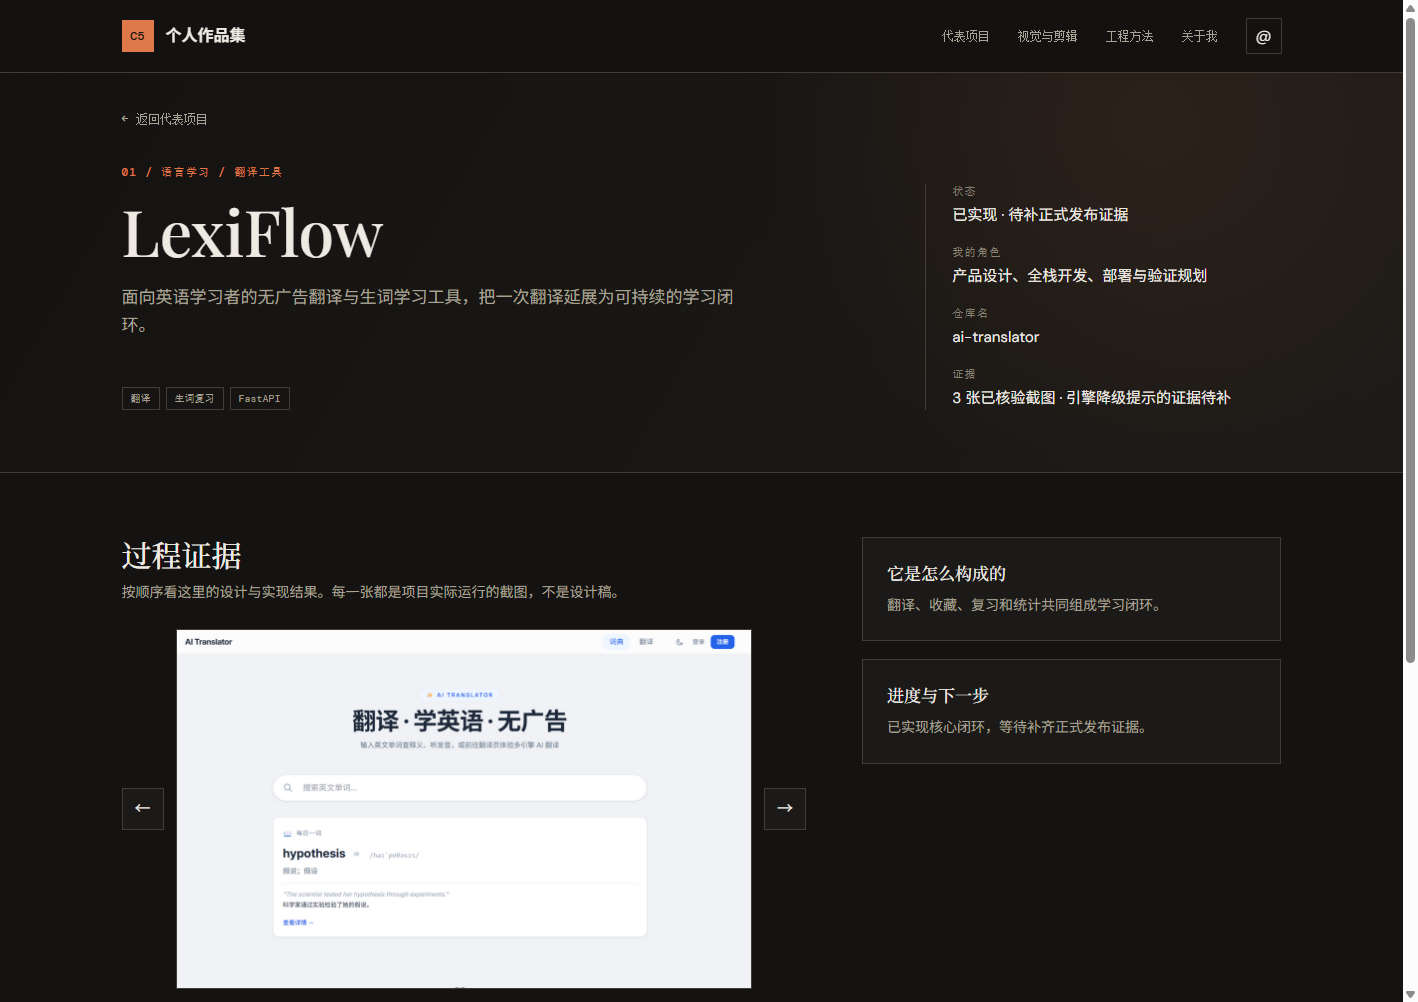
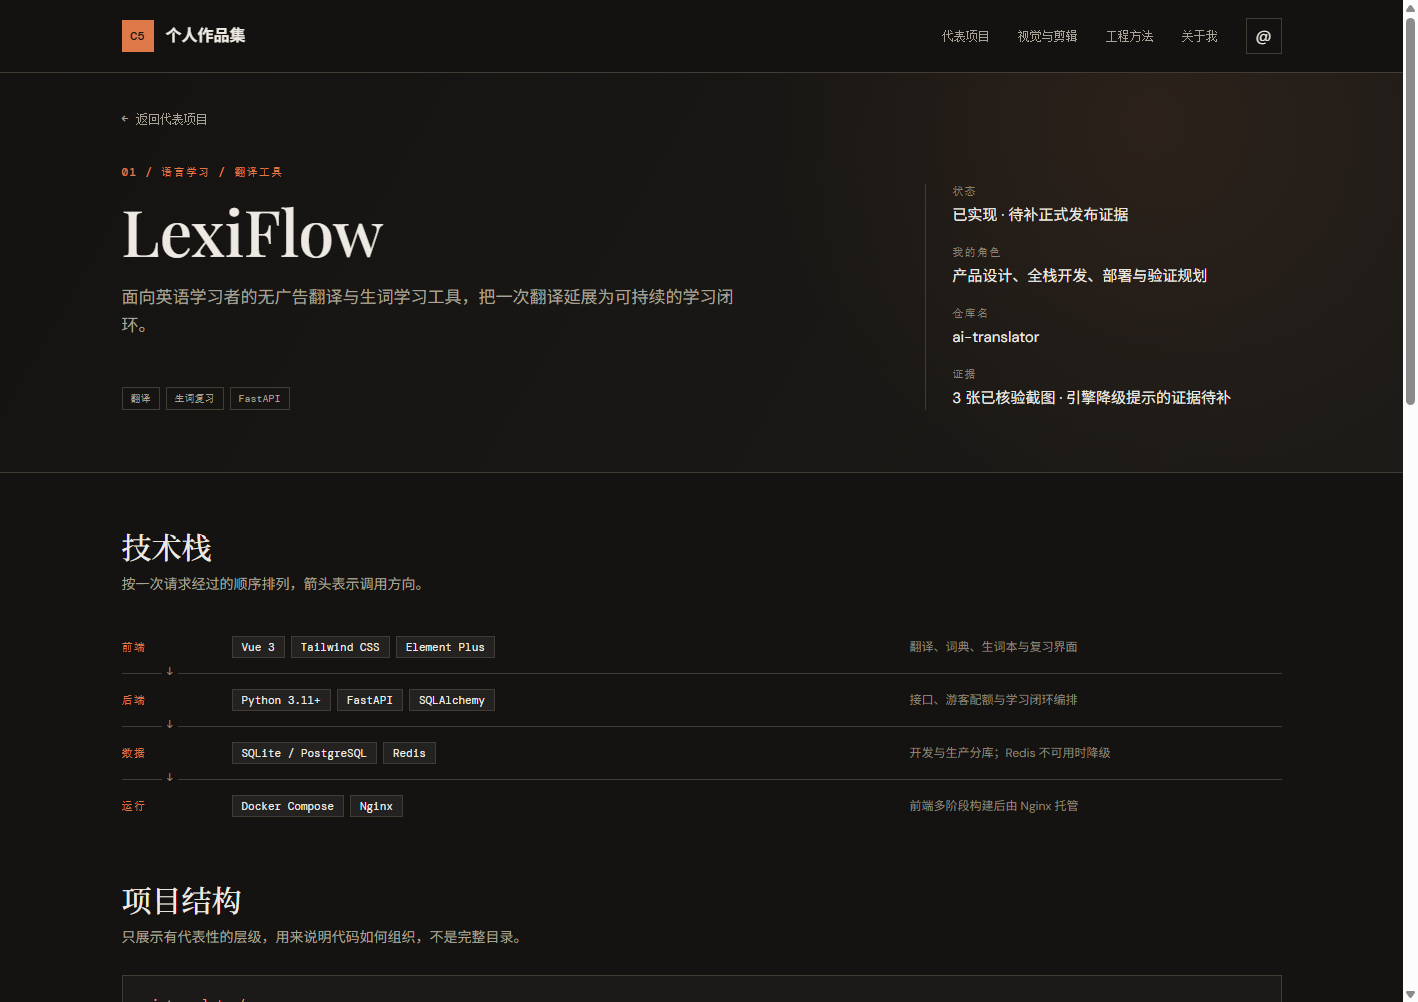
feat: 详情页新增技术栈分层与脱敏目录树，并修复页内锚点被吸顶导航遮挡
新增两个区块（试点：LexiFlow 与 Folio 两个独立项目）：
- 技术栈：按一次请求经过的顺序横向分层，层间用箭头表示调用方向。
  刻意不做树状图——5 个案例的层级高度相似，重复图形只会变成噪声；
  更复杂的知识图谱式展示留给独立立项的知识体系项目。
  技术栈全部取自 doc/14 已核验台账，未凭印象书写。
- 项目结构：脱敏目录树，每个目录名均由实际列目录核出，标注「脱敏摘要 · 不是完整目录」。
  不展示 .env、CLAUDE.md、uploads/、data/、static/ 等配置与私有目录。
  规则：以跟踪文件为底稿，再逐文件人工确认是否适合公开——两道都要过。
  （Folio 的跟踪列表里就有 CLAUDE.md 与求职材料，证明只看 git ls-files 不足以判定可公开性）

修复既有缺陷：
- 顶部导航吸顶 72px，而首页 #hero/#projects/#edit-works/#method/#about 五个页内锚点
  均未设置 scroll-margin-top，导致点「查看代表项目」或导航链接时目标标题被压在导航栏下。
  统一加 [id]{scroll-margin-top:88px}。

验收：42 → 47 项。新增 5 条断言均有精确期望值：
- 技术栈分层已渲染（4）、技术栈首层为前端（前端）
- 项目结构树已渲染（14）、目录树带脱敏声明（true）
- 锚点跳转后目标区块未被吸顶导航遮挡（行为断言，非仅检查样式声明）
另新增 v11-detail-anatomy.png 截图，为这两个区块留存视觉证据。

diff --git a/project/frontend/src/data/projects.js b/project/frontend/src/data/projects.js
@@ -3,8 +3,8 @@
 import { ref } from 'vue'
 
 export const fallbackProjects = [
-  { id: 1, slug: 'ai-translator', title: 'LexiFlow', repoName: 'ai-translator', summary: '面向英语学习者的无广告翻译与生词学习工具，把一次翻译延展为可持续的学习闭环。', background: '翻译、收藏、复习和统计共同组成学习闭环。', outcome: '已实现核心闭环，等待补齐正式发布证据。', role: '产品设计、全栈开发、部署与验证规划', projectType: '语言学习 / 翻译工具', project_type: 'INDEPENDENT', status: '已实现 · 待补正式发布证据', tags: ['翻译', '生词复习', 'FastAPI'], image: '/assets/v5/translator-home.png', visualKind: 'screenshot', evidence: '3 张已核验截图 · 引擎降级提示的证据待补', gallery: [{ src: '/assets/v5/translator-home.png', step: 'STEP 01 / 入口', caption: '首页「每日一词」。把工具的入口前置成每天可以回访的学习动作，而不是一次性的翻译框。' }, { src: '/assets/v5/lexiflow-translate-result.png', step: 'STEP 02 / 核心链路', caption: '真实翻译结果。输入一句英文，模型返回中文译文，下方列出可继续查词的高频词。截图取自本地实跑，不是设计稿。' }, { src: '/assets/v5/lexiflow-quota-limit.png', step: 'STEP 03 / 边界处理', caption: '匿名游客每日 3 次免费翻译，用完后不静默失败，而是引导登录。配额按匿名标识独立计数，登录用户不受限。' }] },
-  { id: 2, slug: 'ai-second-brain', title: 'Folio', repoName: 'ai-second-brain', summary: '把文档整理、切片检索与问答连成一条链路，回答只依据上传的资料，并标注来源。', background: '把文档上传、切片、检索和流式对话连接起来。', outcome: '已完成独立项目闭环，正在整理公开版本证据。', role: '产品建模、Java 全栈开发、测试与部署', projectType: '知识库 / 检索问答', project_type: 'SOLO', status: '已实现 · 发布前复核', tags: ['文档检索', '引用溯源', 'Spring Boot'], image: '/assets/v5/folio-cover-login.png', visualKind: 'screenshot', evidence: '3 张已核验截图 · 均为独立演示账号采集，不含真实资料', gallery: [{ src: '/assets/v5/secondbrain-login.png', step: 'STEP 01 / 身份入口', caption: '登录页。左侧说明产品定位，右侧为登录表单。系统区分管理员与普通用户，文档、会话与模型配置按账号隔离。' }, { src: '/assets/v5/brain-documents.png', step: 'STEP 02 / 文档管理', caption: '文档上传与处理状态。上传后经过解析、递归切片和本地 BGE 向量化，页面上显示每个文档的切片数量。截图为演示账号，未包含真实资料。' }, { src: '/assets/v5/brain-chat-cited.png', step: 'STEP 03 / 核心链路', caption: '知识库对话。回答基于检索到的片段生成，并给出引用片段与相似度分数；这份材料只覆盖了问题的一部分，回答就明确说明缺失，而不是编造补全。' }] },
+  { id: 1, slug: 'ai-translator', title: 'LexiFlow', repoName: 'ai-translator', summary: '面向英语学习者的无广告翻译与生词学习工具，把一次翻译延展为可持续的学习闭环。', background: '翻译、收藏、复习和统计共同组成学习闭环。', outcome: '已实现核心闭环，等待补齐正式发布证据。', role: '产品设计、全栈开发、部署与验证规划', projectType: '语言学习 / 翻译工具', project_type: 'INDEPENDENT', status: '已实现 · 待补正式发布证据', tags: ['翻译', '生词复习', 'FastAPI'], image: '/assets/v5/translator-home.png', visualKind: 'screenshot', evidence: '3 张已核验截图 · 引擎降级提示的证据待补', stack: [{ layer: '前端', items: ['Vue 3', 'Tailwind CSS', 'Element Plus'], note: '翻译、词典、生词本与复习界面' }, { layer: '后端', items: ['Python 3.11+', 'FastAPI', 'SQLAlchemy'], note: '接口、游客配额与学习闭环编排' }, { layer: '数据', items: ['SQLite / PostgreSQL', 'Redis'], note: '开发与生产分库；Redis 不可用时降级' }, { layer: '运行', items: ['Docker Compose', 'Nginx'], note: '前端多阶段构建后由 Nginx 托管' }], structure: { root: 'ai-translator/', note: '脱敏摘要 · 省略配置文件、环境变量与私有目录', nodes: [{ depth: 0, name: 'backend/', note: 'FastAPI 服务' }, { depth: 1, name: 'app/routers/', note: '接口路由' }, { depth: 1, name: 'app/services/', note: '翻译引擎、词典与学习闭环' }, { depth: 1, name: 'app/models/', note: '数据表模型' }, { depth: 1, name: 'app/schemas/', note: '请求与响应校验' }, { depth: 1, name: 'app/middleware/', note: '认证与限流' }, { depth: 0, name: 'frontend/', note: 'Vue 3 界面' }, { depth: 1, name: 'src/views/', note: '首页、翻译、生词本、复习' }, { depth: 1, name: 'src/components/', note: '通用组件' }, { depth: 1, name: 'src/stores/', note: '状态管理' }, { depth: 1, name: 'src/api/', note: '接口封装' }, { depth: 0, name: 'nginx/', note: '反向代理与静态托管' }, { depth: 0, name: 'docker-compose.yml', note: '开发编排' }, { depth: 0, name: 'docker-compose.prod.yml', note: '生产编排' }] }, gallery: [{ src: '/assets/v5/translator-home.png', step: 'STEP 01 / 入口', caption: '首页「每日一词」。把工具的入口前置成每天可以回访的学习动作，而不是一次性的翻译框。' }, { src: '/assets/v5/lexiflow-translate-result.png', step: 'STEP 02 / 核心链路', caption: '真实翻译结果。输入一句英文，模型返回中文译文，下方列出可继续查词的高频词。截图取自本地实跑，不是设计稿。' }, { src: '/assets/v5/lexiflow-quota-limit.png', step: 'STEP 03 / 边界处理', caption: '匿名游客每日 3 次免费翻译，用完后不静默失败，而是引导登录。配额按匿名标识独立计数，登录用户不受限。' }] },
+  { id: 2, slug: 'ai-second-brain', title: 'Folio', repoName: 'ai-second-brain', summary: '把文档整理、切片检索与问答连成一条链路，回答只依据上传的资料，并标注来源。', background: '把文档上传、切片、检索和流式对话连接起来。', outcome: '已完成独立项目闭环，正在整理公开版本证据。', role: '产品建模、Java 全栈开发、测试与部署', projectType: '知识库 / 检索问答', project_type: 'SOLO', status: '已实现 · 发布前复核', tags: ['文档检索', '引用溯源', 'Spring Boot'], image: '/assets/v5/folio-cover-login.png', visualKind: 'screenshot', evidence: '3 张已核验截图 · 均为独立演示账号采集，不含真实资料', stack: [{ layer: '前端', items: ['Vue 3'], note: '登录、文档管理与检索对话界面' }, { layer: '后端', items: ['Java 17', 'Spring Boot 3', 'Sa-Token', 'MyBatis-Plus'], note: '接口、认证与业务编排' }, { layer: '检索', items: ['LangChain4j', 'Apache Tika'], note: '文档解析、递归切片与向量检索' }, { layer: '数据', items: ['MySQL'], note: '文档、切片、会话与用户' }, { layer: '运行', items: ['Docker', 'Nginx'], note: '容器编排与反向代理' }], structure: { root: 'ai-second-brain/', note: '脱敏摘要 · 省略配置文件、环境变量与私有目录', nodes: [{ depth: 0, name: 'backend/', note: 'Spring Boot 服务' }, { depth: 1, name: 'src/main/java/com/aibrain/', note: '领域代码根' }, { depth: 2, name: 'controller/', note: '接口层' }, { depth: 2, name: 'service/', note: '文档解析、切片、检索与对话编排' }, { depth: 2, name: 'mapper/', note: '数据访问' }, { depth: 2, name: 'entity/', note: '数据表映射' }, { depth: 2, name: 'dto/', note: '请求与响应对象' }, { depth: 2, name: 'config/', note: '认证、跨域、异步与模型配置' }, { depth: 0, name: 'frontend/', note: 'Vue 3 界面' }, { depth: 1, name: 'src/pages/', note: '登录、文档管理、对话' }, { depth: 1, name: 'src/components/', note: '会话、文档卡片等组件' }, { depth: 1, name: 'src/composables/', note: '对话与文档的可复用逻辑' }, { depth: 1, name: 'src/stores/', note: '登录态与会话状态' }, { depth: 1, name: 'src/api/', note: '接口封装' }, { depth: 0, name: 'deploy/', note: 'nginx 与生产配置' }, { depth: 0, name: 'docker-compose.yml', note: 'MySQL + 服务 + Nginx 编排' }] }, gallery: [{ src: '/assets/v5/secondbrain-login.png', step: 'STEP 01 / 身份入口', caption: '登录页。左侧说明产品定位，右侧为登录表单。系统区分管理员与普通用户，文档、会话与模型配置按账号隔离。' }, { src: '/assets/v5/brain-documents.png', step: 'STEP 02 / 文档管理', caption: '文档上传与处理状态。上传后经过解析、递归切片和本地 BGE 向量化，页面上显示每个文档的切片数量。截图为演示账号，未包含真实资料。' }, { src: '/assets/v5/brain-chat-cited.png', step: 'STEP 03 / 核心链路', caption: '知识库对话。回答基于检索到的片段生成，并给出引用片段与相似度分数；这份材料只覆盖了问题的一部分，回答就明确说明缺失，而不是编造补全。' }] },
   { id: 3, slug: 'zhiheng-teaching', title: '高中个性化教学平台 · 知衡', summary: '围绕题库、考试、掌握度、错题和练习构建三角色教学分析闭环。', background: '用清晰的数据流连接管理员、老师和学生的日常工作。', outcome: '补齐学生端与管理员端页面、知识点建表与知识图谱，然后处理部署。当前为单机演示数据，未压测、未部署。', role: '产品定义、信息架构、Java 后端与 Vue 前端开发、测试与验收', projectType: '教育产品 / 全栈应用', project_type: 'INDEPENDENT', status: '教师端考试闭环已交付 · 学生端后端完成、前端待补', tags: ['Spring Boot', 'Vue 3', '三角色'], image: '/assets/v5/zhiheng-dashboard.png', visualKind: 'screenshot', evidence: '真实前后端与数据库 · 8 次版本化迁移 · 51 项后端测试 · 考试分析页存在接口缺陷待修', gallery: [{ src: '/assets/v5/zhiheng-dashboard.png', step: 'STEP 01 / 教师工作台', caption: '教师工作台。班级平均掌握度、待批改考试、需关注学生与可用题目数都由最近一次真实考试的结果聚合得出，数据来自后端接口而非写死的演示值。' }, { src: '/assets/v5/zhiheng-questions.png', step: 'STEP 02 / 题库管理', caption: '题库管理：支持单选、多选、判断、填空、解答五种题型，可维护知识点、难度与分值，也支持按模板 Excel 批量导入。' }, { src: '/assets/v5/zhiheng-grading.png', step: 'STEP 03 / 逐题改卷', caption: '逐题改卷。按学生逐题录入得分，前端限制分数不得超过该题满分，左侧实时显示每位学生的录入进度。这是线下考试闭环里最关键的一步。' }] },
   { id: 4, slug: 'university-news', title: '大学新闻网', summary: 'PC 管理端、移动 Web 与微信小程序共享后端 API 的校园新闻系统。', background: '合作项目，覆盖内容管理、多端展示和文件存储。', outcome: '已按团队口径说明个人贡献边界，公开范围限于读者端页面截图。', role: '合作项目，双方共同参与：后端以搭档为主，前端 UI 以我为主；搭档为项目发起者，整体贡献多于我。具体模块划分未逐项记录。', projectType: '内容平台 / 多端体验', project_type: 'COLLABORATIVE', status: '已授权展示 · 贡献边界已说明', tags: ['合作', '多端', '内容管理'], image: '/assets/v5/nanyang-1.png', visualKind: 'screenshot', evidence: '3 张读者端页面截图（由项目成员提供） · 图注已按截图实况核对 · 后台管理端未提供截图', gallery: [{ src: '/assets/v5/nanyang-1.png', step: 'STEP 01 / 读者端首页', caption: '读者端新闻首页（PC）。顶部是栏目导航与登录入口，中间为校庆主题轮播，下方是内容检索入口。这是面向师生的呈现层：截图里没有管理端的表格、增删改按钮或发布状态列。' }, { src: '/assets/v5/nanyang-2.png', step: 'STEP 02 / 栏目页', caption: '「学校概况 → 学校荣誉」栏目页。左侧是栏目导航，右侧是荣誉条目卡片。地址栏显示该页运行在本地开发端口 5175，属于本机实跑截图而非设计稿。' }, { src: '/assets/v5/nanyang-3.png', step: 'STEP 03 / 分类筛选', caption: '「校园快讯」分类筛选结果页。按分类与学院筛选后以卡片列表呈现新闻摘要，并支持重置筛选。同样是 PC 读者端页面，不是移动端或小程序。' }] },
   { id: 5, slug: 'ai-translator-vue-lab', title: 'LexiFlow 练习区', repoName: 'ai-translator-vue-lab', summary: '沿用 LexiFlow 的技术栈搭的练习场：把课程知识拆成章节，在真实项目里动手改造，而不是只记 API。', background: '练习场与正式产品共用同一套技术栈，减少重复搭建的成本；但两者边界清晰，练习产物不影响正式产品。', outcome: '把课程章节继续补完，并让每章的练习结果回流到 LexiFlow。', role: '课程结构设计、练习环境搭建、章节内容编写', projectType: '练习场 / 技术试验', project_type: 'LAB', status: '持续练习中 · 内容未完整', tags: ['Vue 3', '课程章节', '练习环境'], image: '/assets/v5/lab-playground.png', visualKind: 'screenshot', evidence: '2 张真实运行截图 · 练习内容仍在补充中', gallery: [{ src: '/assets/v5/lab-playground.png', step: 'STEP 01 / 练习区', caption: '练习区首页。把学习拆成有目标的章节：先理解概念、运行示例、动手改造，再回到真实项目里找到它。当前已开课 8 个 Vue 实战章节。' }, { src: '/assets/v5/lab-home.png', step: 'STEP 02 / 可运行的载体', caption: '练习需要一个能跑起来的真实项目，而不是孤立的代码片段。练习区直接复用 LexiFlow 的词典与翻译页面作为实验载体。' }] },

diff --git a/project/frontend/src/style.css b/project/frontend/src/style.css
@@ -52,6 +52,29 @@ a.project-card:focus-visible{outline:2px solid var(--warm);outline-offset:3px}
 .detail-grid{display:grid;grid-template-columns:1.55fr .95fr;gap:56px;align-items:start}
 .detail-heading{margin:0 0 8px;font:500 30px/1.2 var(--serif)}
 .detail-note{margin:0 0 26px;color:var(--muted);font-size:14px}
+/* 顶部导航吸顶 72px。页内锚点（#projects、#method 等）跳转时必须留出它的高度，
+   否则目标区块的标题会被压在导航栏下面——首页"查看代表项目"和各个导航链接都受影响。 */
+[id]{scroll-margin-top:88px}
+/* 技术栈按调用方向横向分层，刻意不做树状图：5 个案例的层级高度相似，重复的图形只会变成噪声；
+   更复杂的知识图谱式展示留给独立立项的知识体系项目，本项目聚焦呈现项目与内容。 */
+.detail-anatomy{padding:56px 0 8px}
+.anatomy-block + .anatomy-block{margin-top:50px}
+.stack-list{display:grid}
+.stack-row{position:relative;display:grid;grid-template-columns:92px minmax(0,1fr) 34ch;gap:18px;align-items:baseline;padding:15px 0;border-top:1px solid var(--line)}
+.stack-row:first-child{border-top:0}
+.stack-row + .stack-row:before{content:'\2193';position:absolute;top:-10px;left:40px;padding:0 5px;background:var(--bg);color:var(--faint);font:11px var(--mono)}
+.stack-layer{color:var(--warm);font:500 11px var(--mono);letter-spacing:.12em}
+.stack-items{display:flex;flex-wrap:wrap;gap:6px}
+.stack-item{border:1px solid var(--line);background:var(--panel-2);padding:3px 9px;color:var(--ink);font:11px var(--mono)}
+.stack-note{color:var(--faint);font-size:12px}
+.tree-card{border:1px solid var(--line);background:var(--panel);padding:20px 22px}
+.tree-root{margin:0 0 12px;color:var(--warm-soft);font:12px var(--mono)}
+.tree-list{margin:0;padding:0;list-style:none}
+.tree-list li{display:flex;flex-wrap:wrap;gap:14px;align-items:baseline;padding:4px 0}
+.tree-name{color:var(--ink);font:12px var(--mono)}
+.tree-note{color:var(--faint);font-size:12px}
+.tree-legend{margin:14px 0 0;padding-top:12px;border-top:1px solid var(--line);color:var(--faint);font:11px var(--mono)}
+@media(max-width:900px){.detail-anatomy{padding:40px 0 8px}.anatomy-block + .anatomy-block{margin-top:34px}.stack-row{grid-template-columns:1fr;gap:8px;padding:13px 0}.stack-row + .stack-row:before{left:12px}.stack-note{max-width:none}}
 .detail-aside{display:grid;gap:18px}
 .detail-card{border:1px solid var(--line);background:var(--panel);padding:24px}
 .detail-card h3{margin:0 0 10px;font:500 17px/1.3 var(--serif)}

diff --git a/project/frontend/src/views/ProjectView.vue b/project/frontend/src/views/ProjectView.vue
@@ -91,6 +91,43 @@ watch(() => route.params.slug, slug => { if (slug) load(slug) })
         </div>
       </section>
 
+      <section v-if="project.stack || project.structure" class="content-section detail-anatomy">
+        <div class="shell">
+          <div v-if="project.stack" class="anatomy-block">
+            <h2 class="detail-heading">技术栈</h2>
+            <p class="detail-note">按一次请求经过的顺序排列，箭头表示调用方向。</p>
+            <div class="stack-list">
+              <div v-for="row in project.stack" :key="row.layer" class="stack-row">
+                <span class="stack-layer">{{ row.layer }}</span>
+                <span class="stack-items">
+                  <span v-for="item in row.items" :key="item" class="stack-item">{{ item }}</span>
+                </span>
+                <span v-if="row.note" class="stack-note">{{ row.note }}</span>
+              </div>
+            </div>
+          </div>
+
+          <div v-if="project.structure" class="anatomy-block">
+            <h2 class="detail-heading">项目结构</h2>
+            <p class="detail-note">只展示有代表性的层级，用来说明代码如何组织，不是完整目录。</p>
+            <div class="tree-card">
+              <p class="tree-root">{{ project.structure.root }}</p>
+              <ul class="tree-list">
+                <li
+                  v-for="node in project.structure.nodes"
+                  :key="`${node.depth}-${node.name}`"
+                  :style="{ paddingLeft: `${node.depth * 22 + 6}px` }"
+                >
+                  <span class="tree-name">{{ node.name }}</span>
+                  <span v-if="node.note" class="tree-note">{{ node.note }}</span>
+                </li>
+              </ul>
+              <p class="tree-legend">{{ project.structure.note }}</p>
+            </div>
+          </div>
+        </div>
+      </section>
+
       <section class="content-section detail-body">
         <div class="shell detail-grid">
           <div class="detail-main" v-reveal>
